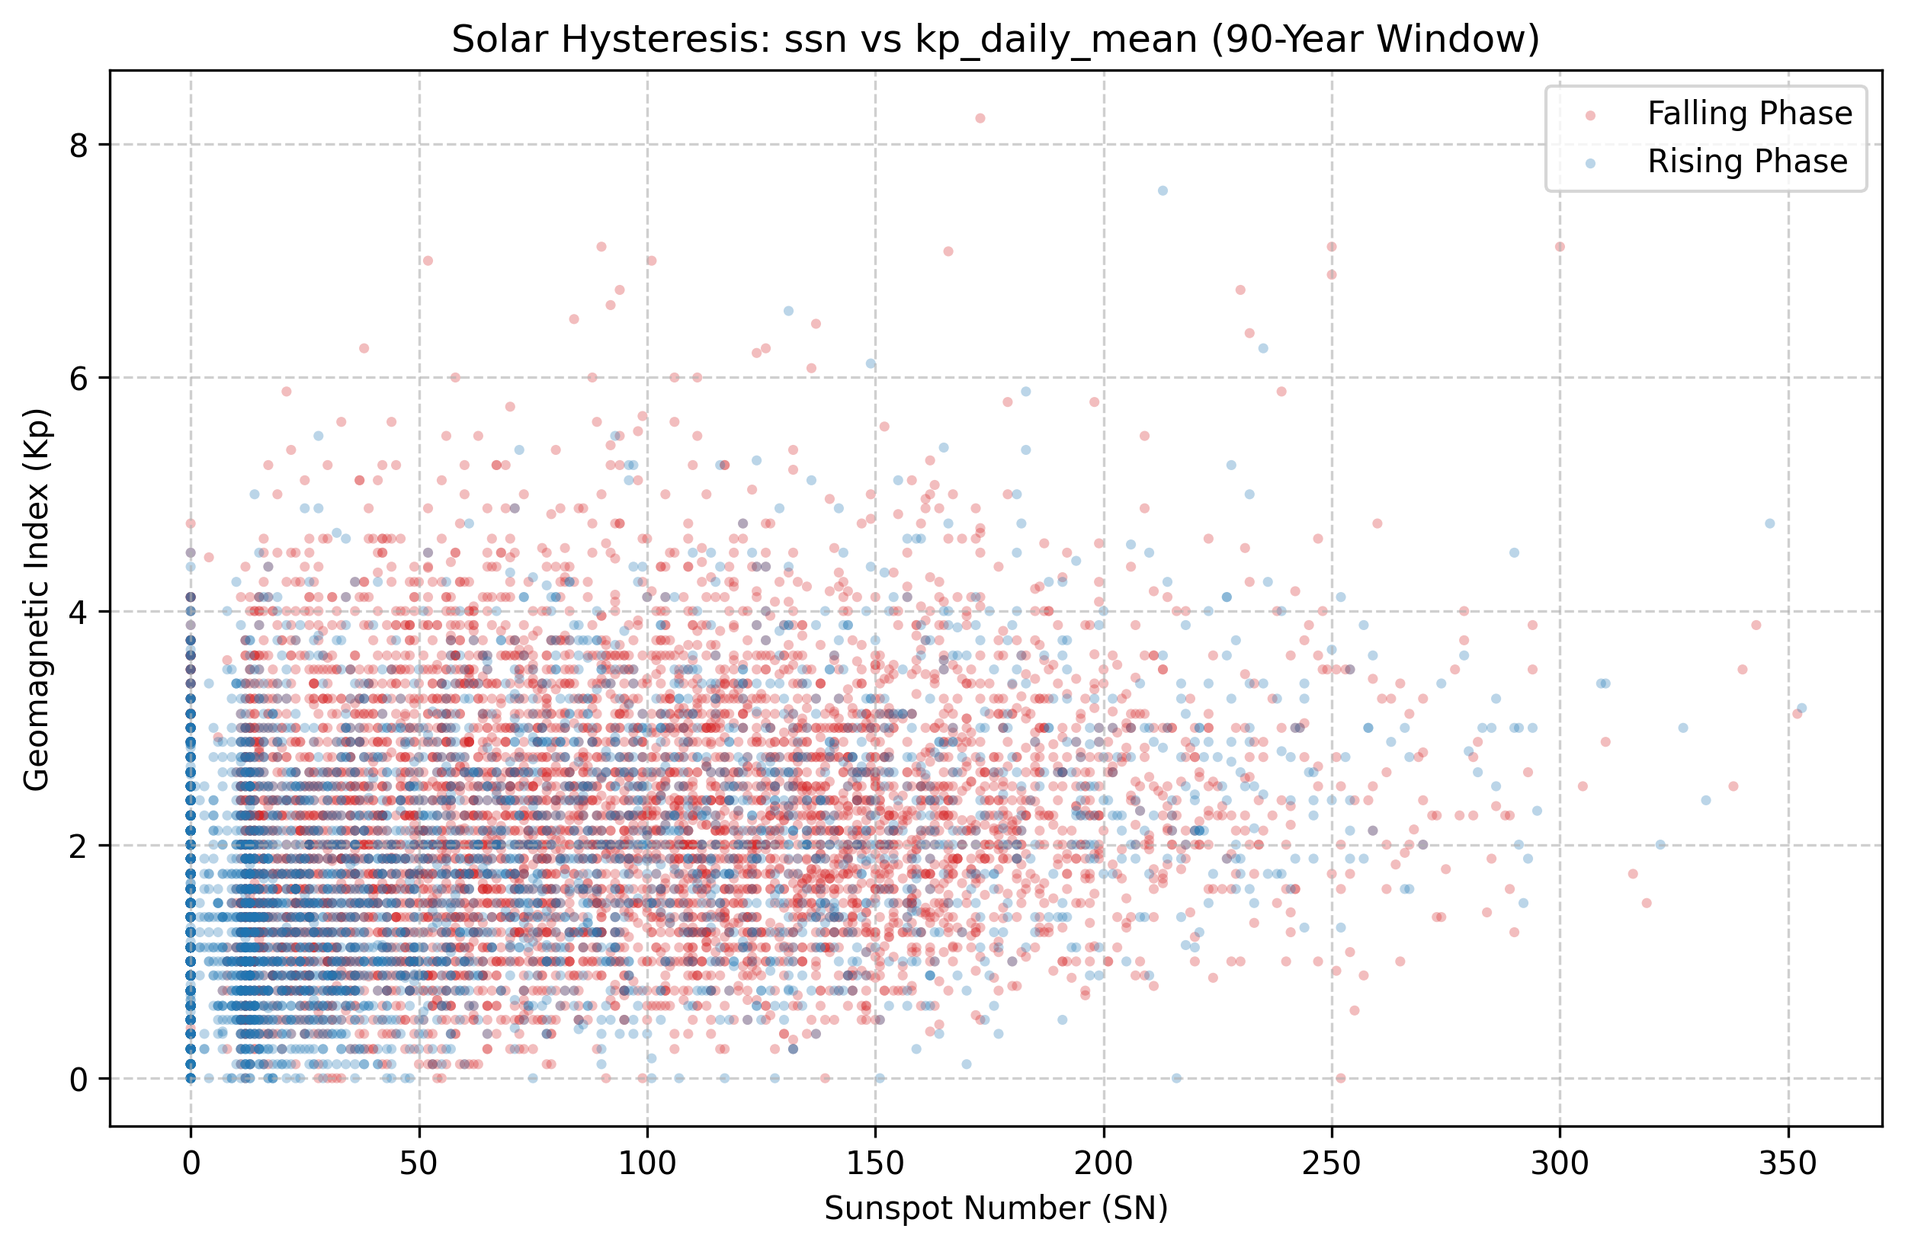
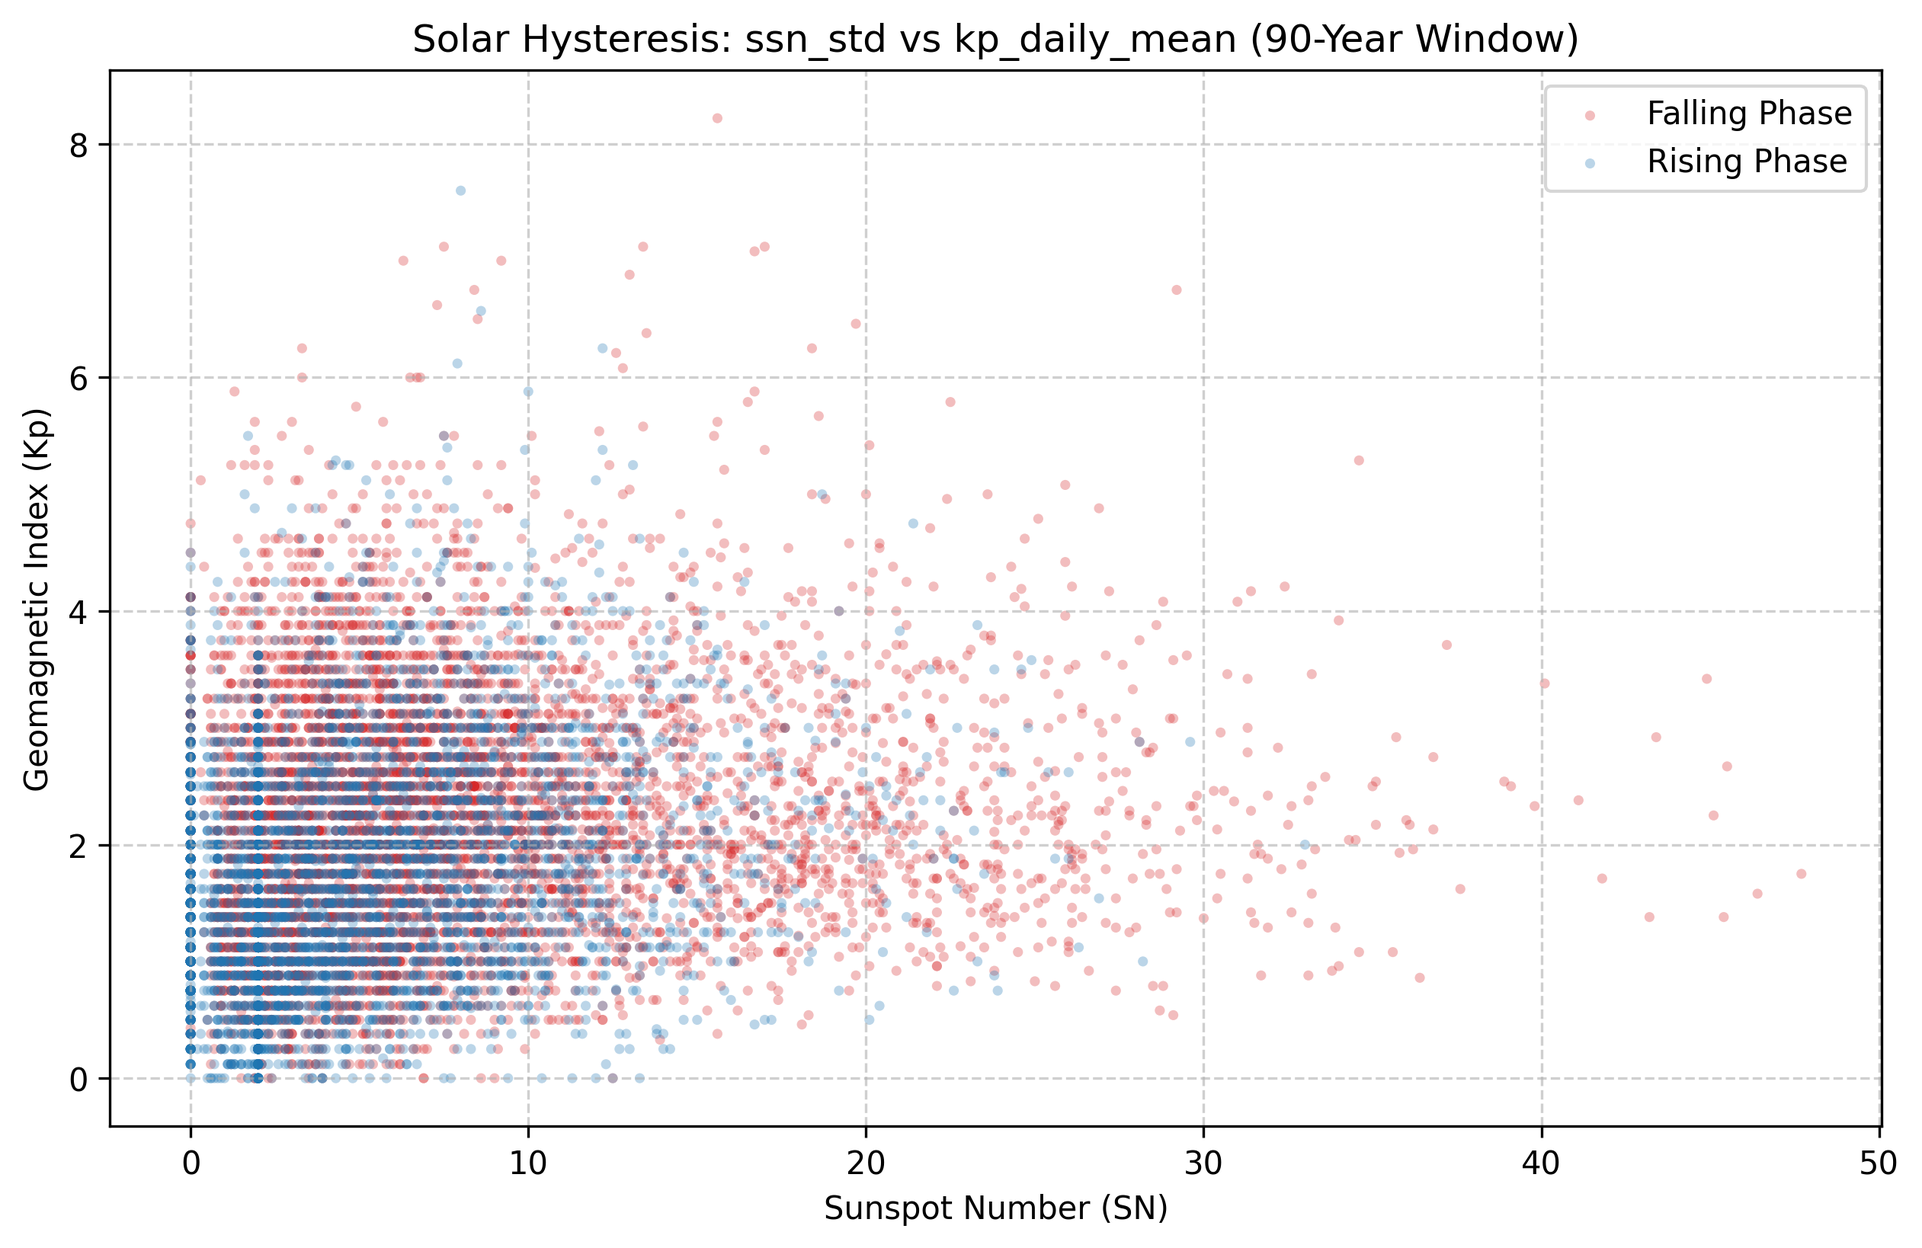
Refactor Lag-Time Analysis and Enable Multi-Period Aggregation
Detailed Changes:
1. Refined Hysteresis Analysis: Removed static  visualization/code, relying on interactive Plotly scatter plots.
2. Multi-Period Aggregation: Updated  to support Quarterly ('Q') resampling. Synced  to allow Monthly, Quarterly, and Yearly toggles across all charts and metrics.
3. Lag-Time & SEA Enhancements:
    - Added a Dynamic Bivariate Lag-Correlation chart highlighting peak Pearson r delay.
    - Fixed Trigger Operator bugs (added support for >, <, ==, >=, <=).
    - Enabled user-selectable Response Variables for SEA (not just Dst).
4. Variable Cleanup: Removed  from the Extreme Events Selection list to streamline outlier detection.

diff --git a/dashboard.py b/dashboard.py
@@ -20,7 +20,7 @@ sys.path.insert(0, str(Path(__file__).parent))
 from analysis import (
     cross_correlation, find_extreme_events, solar_cycle_phase,
     compute_monthly_stats, analyze_periodicity, predictive_dominance,
-    analyze_phase_locked_climatology, analyze_hysteresis
+    analyze_phase_locked_climatology, analyze_hysteresis, compute_periodly_stats
 )
 
 # ---------------------------------------------------------------------------
@@ -392,68 +392,115 @@ def page_lag_analysis():
         "**What is this mathematical model showing?**\n"
         "Superposed Epoch Analysis is a mathematical technique used to align multiple independent events (like 100 different solar flares) at a common '**Day 0**' to find their average delayed impact.\n\n"
         "- **The Transit Delay:** X-Ray flares hit Earth at the speed of light (8 minutes), but the physical plasma clouds (CMEs) that cause geomagnetic storms travel much slower. \n"
-        "- Look at the graph: you will see that the Geomagnetic disturbance (the thick black line for Kp or Dst) doesn't completely peak/crash until roughly 2 to 4 days *after* Day 0. This visual delay statistically proves the speed of the physical solar wind."
+        "- **Lag Relation:** This tab allows you to visualize and calculate the Pearson correlation (r) at various daily offsets, proving the physical transit speed of the solar wind."
     )
     
+    # --- New Section: Bivariate Lag Correlation ---
+    st.subheader("Bivariate Lag-Correlation (Pearson r vs Lag)")
+    column_lag_rel_config, column_lag_rel_viz = st.columns([1, 2])
+    
+    with column_lag_rel_config:
+        numeric_cols = [c for c in dataframe_filtered.columns if dataframe_filtered[c].dtype in [np.float64, np.int64]]
+        driver_x = st.selectbox("Driver (X)", numeric_cols, index=numeric_cols.index("ssn") if "ssn" in numeric_cols else 0)
+        response_y = st.selectbox("Response (Y)", numeric_cols, index=numeric_cols.index("kp_daily_max") if "kp_daily_max" in numeric_cols else 0)
+        correlation_max_lag = st.slider("Max Lag (Days)", 0, 60, 28)
+        
+    with column_lag_rel_viz:
+        if driver_x and response_y:
+            corr_df = cross_correlation(dataframe_filtered[driver_x], dataframe_filtered[response_y], max_lag=correlation_max_lag)
+            
+            fig_corr = px.line(corr_df, x="lag_days", y="pearson_r", markers=True,
+                               title=f"Correlation Impact: {driver_x} → {response_y}",
+                               labels={"lag_days": "Lag (Days)", "pearson_r": "Pearson Correlation (r)"})
+            fig_corr.add_vline(x=0, line_dash="dash", line_color="gray", opacity=0.5)
+            # Highlight the optimal lag
+            opt_row = corr_df.loc[corr_df["pearson_r"].idxmax()]
+            fig_corr.add_annotation(x=opt_row["lag_days"], y=opt_row["pearson_r"],
+                                  text=f"Peak: {opt_row['lag_days']}d (r={opt_row['pearson_r']:.2f})",
+                                  showarrow=True, arrowhead=1)
+            
+            fig_corr.update_layout(height=400, margin=dict(l=0, r=0, t=40, b=0), hovermode="x unified")
+            st.plotly_chart(fig_corr, width="stretch")
+
+    st.markdown("---")
+
     column_lag_analysis_config, column_lag_analysis_viz = st.columns(2)
     with column_lag_analysis_config:
         st.subheader("Iterative Delay Optimization")
         lag_analysis_dataframe = load_stats_file("lag_time_detailed.csv")
         if not lag_analysis_dataframe.empty:
             daily_lag_records = lag_analysis_dataframe[lag_analysis_dataframe["resolution"] == "Daily"]
-            st.dataframe(daily_lag_records[["driver_label", "response_label", "optimal_lag", "correlation_at_peak"]], hide_index=True, height=300)
+            st.dataframe(daily_lag_records[["driver_label", "response_label", "optimal_lag", "correlation_at_peak"]], hide_index=True, height=250)
+        else:
+            st.info("Pre-calculated statistics not found in `data/analysis/stats/`. Run the analysis pipeline to populate this table.")
         
         st.subheader("Dynamic Superposed Epoch Analysis")
-        trigger_metric_name = st.selectbox("Trigger Variable", ["flare_X", "flare_M", "ssn", "f107", "kp_daily_max", "dst_daily_mean"], index=2 if "ssn" in dataframe.columns else 0)
-        trigger_operator = st.selectbox("Operator", ["=", "<=", "=="])
+        trigger_metric_name = st.selectbox("Trigger Variable", ["flare_X", "flare_M", "ssn", "f107", "kp_daily_max"], index=2 if "ssn" in dataframe.columns else 0)
+        trigger_operator = st.selectbox("Operator", [">=", "<=", "==", ">", "<"])
         trigger_threshold_value = st.number_input("Threshold", value=1.0 if "flare" in trigger_metric_name else 100.0)
+        sea_response_variable = st.selectbox("Response Variable", numeric_cols, index=numeric_cols.index("dst_daily_mean") if "dst_daily_mean" in numeric_cols else 0)
         
         if trigger_metric_name in dataframe.columns:
+            # Fixed operator logic
             if trigger_operator == ">=": trigger_indices = dataframe[dataframe[trigger_metric_name] >= trigger_threshold_value].index
             elif trigger_operator == "<=": trigger_indices = dataframe[dataframe[trigger_metric_name] <= trigger_threshold_value].index
+            elif trigger_operator == ">": trigger_indices = dataframe[dataframe[trigger_metric_name] > trigger_threshold_value].index
+            elif trigger_operator == "<": trigger_indices = dataframe[dataframe[trigger_metric_name] < trigger_threshold_value].index
             else: trigger_indices = dataframe[dataframe[trigger_metric_name] == trigger_threshold_value].index
             
             st.markdown(f"**Trigger Events Found:** {len(trigger_indices)}")
             
-            if len(trigger_indices) > 0 and "dst_daily_mean" in dataframe.columns:
+            if len(trigger_indices) > 0 and sea_response_variable in dataframe.columns:
                 epoch_window = 10
                 epoch_array = []
                 for trigger_time in trigger_indices:
-                    position_index = dataframe.index.get_loc(trigger_time)
-                    if position_index >= epoch_window and position_index < len(dataframe) - epoch_window:
-                        epoch_array.append(dataframe["dst_daily_mean"].iloc[position_index-epoch_window:position_index+epoch_window+1].values)
+                    try:
+                        position_index = dataframe.index.get_loc(trigger_time)
+                        if position_index >= epoch_window and position_index < len(dataframe) - epoch_window:
+                            epoch_array.append(dataframe[sea_response_variable].iloc[position_index-epoch_window:position_index+epoch_window+1].values)
+                    except Exception:
+                        continue
                 
                 if epoch_array:
                     epoch_mean_values = np.nanmean(epoch_array, axis=0)
                     epoch_day_range = np.arange(-epoch_window, epoch_window+1)
-                    figure_superposed_epoch = px.line(x=epoch_day_range, y=epoch_mean_values, labels={"x": "Days from Trigger (Epoch 0)", "y": "Mean Dst (nT)"}, title=f"Geomagnetic Response (Dst) to {trigger_metric_name} {trigger_operator} {trigger_threshold_value}")
-                    figure_superposed_epoch.add_vline(x=0, line_dash="dash", line_color="#f59e0b", annotation_text="Trigger Event")
-                    figure_superposed_epoch.update_layout(height=300, margin=dict(l=0, r=0, t=40, b=0),
-                                        xaxis=dict(title="Days from Trigger Event"), yaxis=dict(title="Mean Dst (nT)"),
+                    figure_superposed_epoch = px.line(x=epoch_day_range, y=epoch_mean_values, 
+                                                     labels={"x": "Days from Trigger (Day 0)", "y": f"Mean {sea_response_variable}"}, 
+                                                     title=f"Response Analysis: {sea_response_variable} aligned to {trigger_metric_name} {trigger_operator} {trigger_threshold_value}")
+                    figure_superposed_epoch.add_vline(x=0, line_dash="dash", line_color="#f59e0b", annotation_text="Event Start")
+                    figure_superposed_epoch.update_layout(height=350, margin=dict(l=0, r=0, t=40, b=0),
+                                        xaxis=dict(title="Days from Day 0 (Trigger)"), yaxis=dict(title=f"Mean {sea_response_variable}"),
                                         legend=dict(x=0.01, y=0.99, bgcolor="rgba(0,0,0,0.5)", bordercolor="white", borderwidth=1))
                     st.plotly_chart(figure_superposed_epoch, width="stretch")
                 else:
-                    st.warning("Trigger events are too close to dataset edges to plot window.")
+                    st.warning("Trigger events are too sparse or close to edges to generate a mean epoch.")
         else:
-            st.warning(f"Metric {trigger_metric_name} not found in dataset.")
+            st.warning(f"Metric {trigger_metric_name} not found in historical record.")
 
     with column_lag_analysis_viz:
         st.subheader("Event Transit Tracking: Flare to Storm")
         flare_storm_events = load_stats_file("flare_storm_lag_events.csv")
         if not flare_storm_events.empty and "dst_lag_days" in flare_storm_events.columns:
             triggered_storms = flare_storm_events[flare_storm_events.get("storm_triggered", False)]
-            figure_transit_delay_histogram = px.histogram(triggered_storms, x="dst_lag_days", nbins=8, title=f"Transit Delay (n={len(triggered_storms)} storms)", labels={"dst_lag_days": "Lag (days)"}, color_discrete_sequence=["#22c55e"])
-            mean_transit_lag = triggered_storms["dst_lag_days"].mean()
-            figure_transit_delay_histogram.add_vline(x=mean_transit_lag, line_dash="dash", line_color="#ef4444", annotation_text=f"Mean: {mean_transit_lag:.1f}d")
-            figure_transit_delay_histogram.update_layout(height=300, margin=dict(l=0, r=0, t=40, b=0),
-                                 xaxis=dict(title="Transit Lag (days)"), yaxis=dict(title="Frequency (Count)"),
-                                 legend=dict(x=0.01, y=0.99, bgcolor="rgba(0,0,0,0.5)", bordercolor="white", borderwidth=1))
-            st.plotly_chart(figure_transit_delay_histogram, width="stretch")
+            if not triggered_storms.empty:
+                figure_transit_delay_histogram = px.histogram(triggered_storms, x="dst_lag_days", nbins=8, 
+                                                             title=f"Transit Delay (n={len(triggered_storms)} storms)", 
+                                                             labels={"dst_lag_days": "Lag (days)"}, color_discrete_sequence=["#22c55e"])
+                mean_transit_lag = triggered_storms["dst_lag_days"].mean()
+                figure_transit_delay_histogram.add_vline(x=mean_transit_lag, line_dash="dash", line_color="#ef4444", annotation_text=f"Mean: {mean_transit_lag:.1f}d")
+                figure_transit_delay_histogram.update_layout(height=350, margin=dict(l=0, r=0, t=40, b=0),
+                                     xaxis=dict(title="Transit Lag (days)"), yaxis=dict(title="Frequency (Count)"),
+                                     legend=dict(x=0.01, y=0.99, bgcolor="rgba(0,0,0,0.5)", bordercolor="white", borderwidth=1))
+                st.plotly_chart(figure_transit_delay_histogram, width="stretch")
+            else:
+                st.warning("No triggered storms identified in the current window.")
 
             extreme_storms_dataframe = load_stats_file("extreme_storms_dst.csv")
-            if not extreme_storms_dataframe.empty and set(["date", "dst_daily_min", "kp_daily_max", "f107"]).issubset(extreme_storms_dataframe.columns):
+            if not extreme_storms_dataframe.empty and set(["date", "dst_daily_min", "kp_daily_max"]).issubset(extreme_storms_dataframe.columns):
                 st.subheader("Worst Global Disruptions (Dst ≤ -100)")
-                st.dataframe(extreme_storms_dataframe[["date", "dst_daily_min", "kp_daily_max", "f107"]].head(10), hide_index=True, height=250)
+                st.dataframe(extreme_storms_dataframe[["date", "dst_daily_min", "kp_daily_max"]].head(10), hide_index=True, height=250)
+        else:
+            st.info("Additional storm-event data is missing from current cleaned records.")
 
 
 # Helper function for aurora visibility locations
@@ -851,7 +898,7 @@ def page_extreme_events():
     with column_extreme_event_config:
         st.subheader("Threshold Configuration")
         zscore_threshold_sigma = st.slider("Z-Score Threshold (σ)", 1.5, 4.0, 2.5, 0.1)
-        extreme_event_variable = st.selectbox("Variable", ["dst_daily_min", "kp_daily_max", "ssn", "f107", "flare_xray_total"])
+        extreme_event_variable = st.selectbox("Variable", ["kp_daily_max", "ssn", "f107", "flare_xray_total"])
     
     with column_extreme_event_viz:
         if extreme_event_variable in dataframe_filtered.columns:
@@ -1043,12 +1090,7 @@ def page_hysteresis():
                 
                 st.info(f"**Rising Phase:** {len(rising_phase_data)} days | **Falling Phase:** {len(falling_phase_data)} days")
                 
-                # Display saved hysteresis image if available
-                import os
-                if os.path.exists("Images_dashboard/hysteresis_phase.png"):
-                    st.markdown("---")
-                    st.subheader("Phase Analysis Visualization")
-                    st.image("Images_dashboard/hysteresis_phase.png", caption="Solar Hysteresis: Rising vs Falling Phase Comparison", width="stretch")
+
             except Exception as hysteresis_error:
                 st.error(f"Hysteresis analysis failed: {hysteresis_error}")
         else:
@@ -1060,17 +1102,6 @@ def page_hysteresis():
 # ---------------------------------------------------------------------------
 
 def page_monthly_stats():
-    st.title("Monthly Statistics & Temporal Aggregation")
-    st.markdown("Roll up daily observations into monthly summaries to identify medium-term patterns.")
-    
-    st.info(
-        "**Why aggregate to monthly?**\n"
-        "Daily data is noisy and influenced by local oscillations. Monthly aggregation reveals true trends by:\n"
-        "- Computing **mean** values (smooth trends)\n"
-        "- Tracking **max** values (peak events)\n"
-        "- Summing **storm hours** (cumulative impact)"
-    )
-    
     column_monthly_config, column_monthly_viz = st.columns([1, 2])
     
     with column_monthly_config:
@@ -1078,27 +1109,39 @@ def page_monthly_stats():
         aggregation_period_selection = st.radio("Period", ["Monthly", "Quarterly", "Yearly"], horizontal=False)
         period_selection_map = {"Monthly": "M", "Quarterly": "Q", "Yearly": "Y"}
         period_aggregation_code = period_selection_map[aggregation_period_selection]
+
+    st.title(f"{aggregation_period_selection} Statistics & Temporal Aggregation")
+    st.markdown(f"Roll up daily observations into {aggregation_period_selection.lower()} summaries to identify medium-term patterns.")
+    
+    st.info(
+        f"**Why aggregate to {aggregation_period_selection.lower()}?**\n"
+        "Daily data is noisy and influenced by local oscillations. Period aggregation reveals true trends by:\n"
+        "- Computing **mean** values (smooth trends)\n"
+        "- Tracking **max** values (peak events)\n"
+        "- Summing **storm hours** (cumulative impact)"
+    )
     
     with column_monthly_viz:
         try:
             if "ssn" in dataframe_filtered.columns:
-                monthly_aggregated_statistics = compute_monthly_stats(dataframe_filtered.copy())
+                # Use the dynamic period code instead of hardcoded monthly stats
+                periodic_aggregated_statistics = compute_periodly_stats(dataframe_filtered.copy(), period_aggregation_code)
                 
-                figure_monthly_statistics_chart = go.Figure()
-                if "ssn_mean" in monthly_aggregated_statistics.columns:
-                    figure_monthly_statistics_chart.add_trace(go.Scattergl(
-                        x=monthly_aggregated_statistics.index, y=monthly_aggregated_statistics["ssn_mean"],
+                figure_periodic_statistics_chart = go.Figure()
+                if "ssn_mean" in periodic_aggregated_statistics.columns:
+                    figure_periodic_statistics_chart.add_trace(go.Scattergl(
+                        x=periodic_aggregated_statistics.index, y=periodic_aggregated_statistics["ssn_mean"],
                         mode='lines', line=dict(color='#f59e0b', width=2),
                         name="SSN Mean"
                     ))
-                if "kp_daily_mean" in monthly_aggregated_statistics.columns:
-                    figure_monthly_statistics_chart.add_trace(go.Scattergl(
-                        x=monthly_aggregated_statistics.index, y=monthly_aggregated_statistics["kp_daily_mean"],
+                if "kp_daily_mean" in periodic_aggregated_statistics.columns:
+                    figure_periodic_statistics_chart.add_trace(go.Scattergl(
+                        x=periodic_aggregated_statistics.index, y=periodic_aggregated_statistics["kp_daily_mean"],
                         mode='lines', line=dict(color='#22c55e', width=2),
                         name="Kp Mean", yaxis='y2'
                     ))
                 
-                figure_monthly_statistics_chart.update_layout(
+                figure_periodic_statistics_chart.update_layout(
                     height=400, margin=dict(l=0, r=0, t=30, b=0),
                     xaxis=dict(title="Date"),
                     yaxis=dict(title="SSN (Sunspot Number)"),
@@ -1106,10 +1149,10 @@ def page_monthly_stats():
                     hovermode="x unified",
                     legend=dict(x=0.01, y=0.99, bgcolor="rgba(0,0,0,0.5)", bordercolor="white", borderwidth=1)
                 )
-                st.plotly_chart(figure_monthly_statistics_chart, width="stretch")
+                st.plotly_chart(figure_periodic_statistics_chart, width="stretch")
                 
-                st.subheader("Monthly Statistics Summary")
-                st.dataframe(monthly_aggregated_statistics.round(3).head(20), height=400)
+                st.subheader(f"{aggregation_period_selection} Statistics Summary")
+                st.dataframe(periodic_aggregated_statistics.round(3).head(20), height=400)
             else:
                 st.error("SSN column ('ssn') not found in dataset.")
         except Exception as monthly_stats_error:

diff --git a/analysis.py b/analysis.py
@@ -122,7 +122,7 @@ def compute_periodly_stats(df: pd.DataFrame, period: str) -> pd.DataFrame:
     """
     Resamples daily data into W, 2W, M, or Y periods with peak tracking.
     """
-    valid_periods = ['W', '2W', 'M', 'Y']
+    valid_periods = ['W', '2W', 'M', 'Q', 'Y']
     if period.upper().replace('E', '') not in valid_periods:
         raise ValueError(f"Period must be in {valid_periods}")
 
